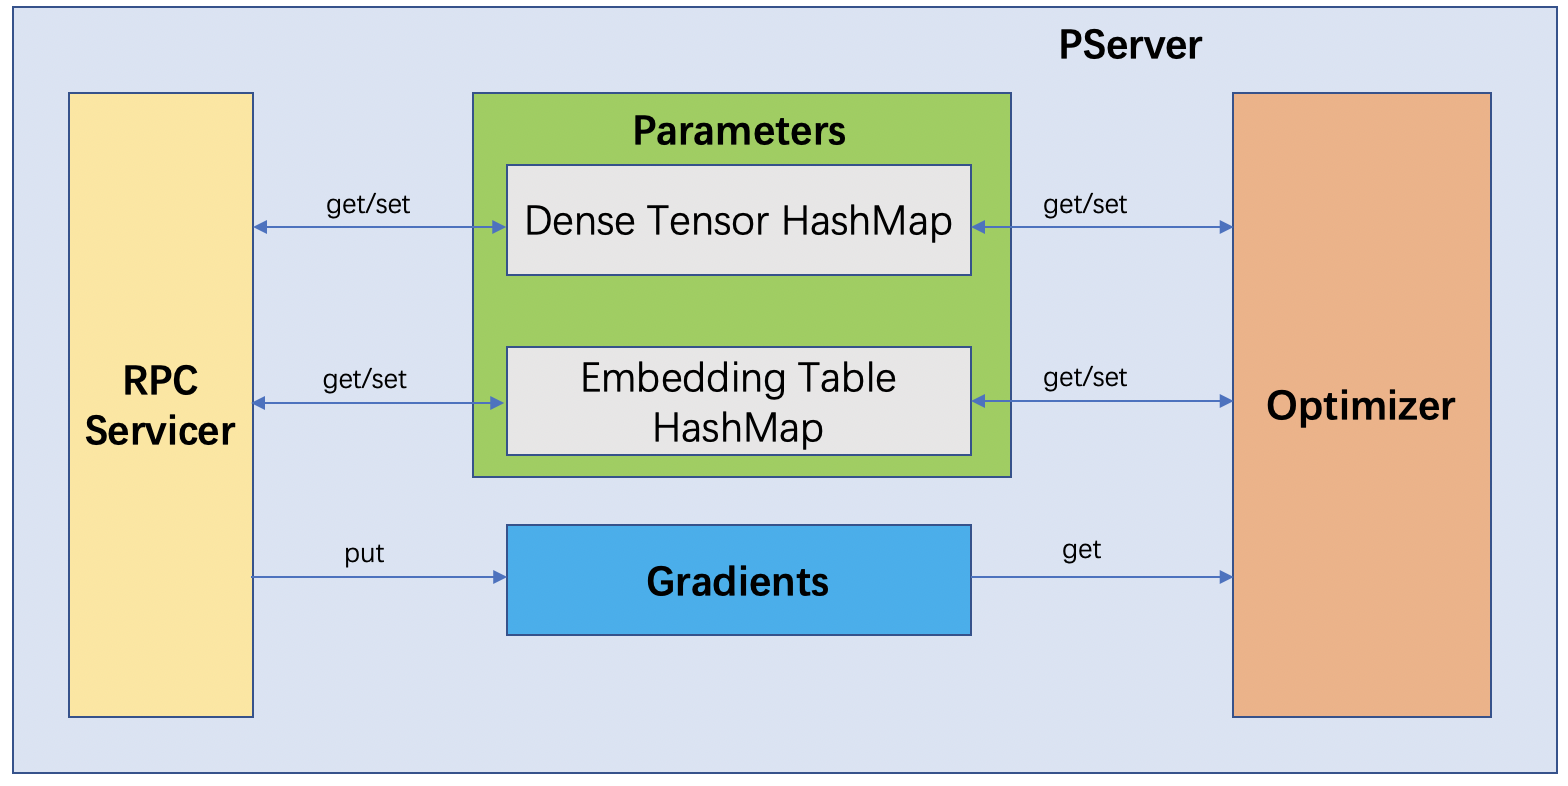
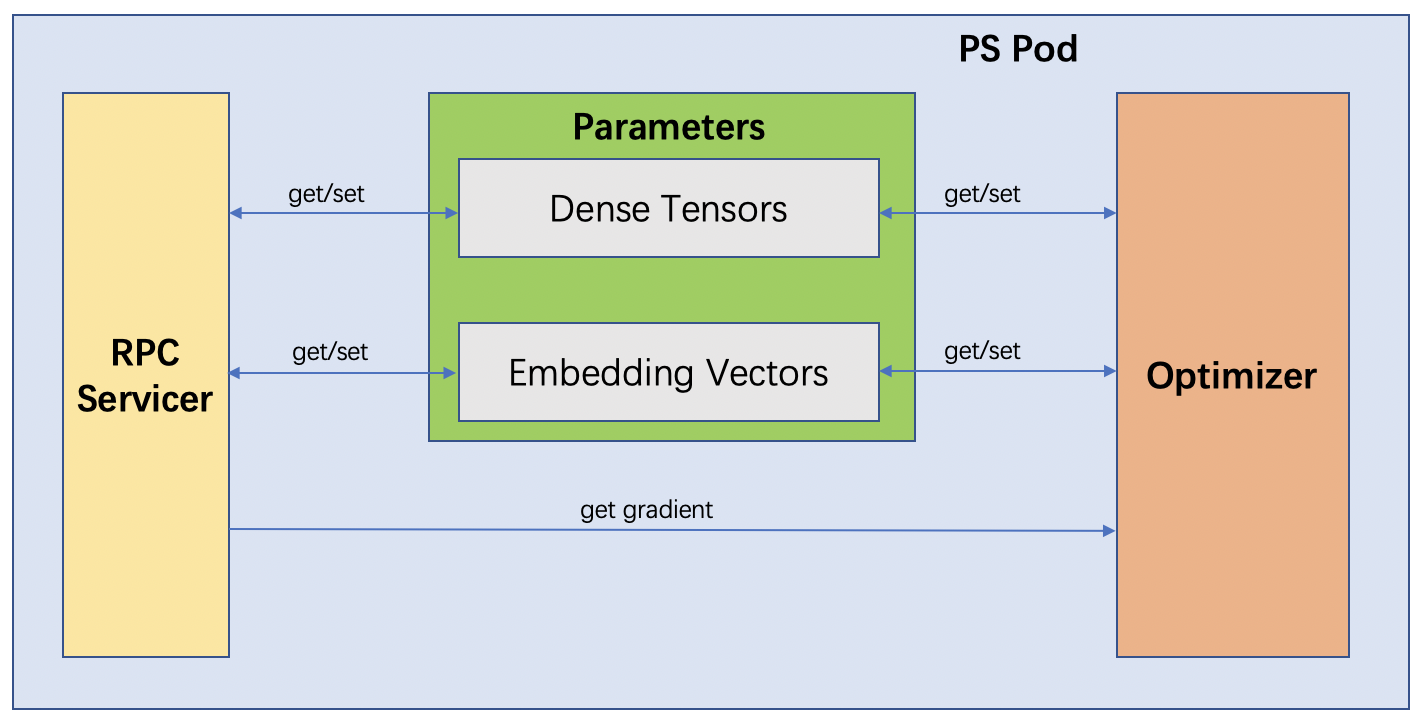
update diagrams

diff --git a/docs/designs/ps_design.md b/docs/designs/ps_design.md
@@ -93,16 +93,6 @@ We have already implemented an [`OptimizeWrapper`](https://github.com/sql-machin
 
 In asynchronous SGD, the PS pod can apply gradients directly to model parameters once it receives gradients. For synchronous SGD, the PS pod accumulates `grads_to_wait` gradients from workers then updates model parameters with these gradients. `grads_to_wait` is an ElasticDL argument specified by the user.
 
-## Short Summary
-
-Following are the details inside a PS instance:
-
-![pserver_detail](../images/pserver_detail.png)
-
-Following are the rpc calls among PS pods and worker pods:
-
-
-![pserver_rpc](../images/pserver_rpc.png)
 
 
 ## Fixed Domain name for PS Pod
@@ -161,9 +151,25 @@ while still training:
         update self.replicas[index] from updated_vectors.embedding_vectors
 ```
 
+
+## Diagram
+Following diagram shows the details inside a PS pod:
+
+![pserver_detail](../images/pserver_detail.png)
+
+Following diagram shows the communication between PS pods:
+
+![pserver_replica](../images/pserver_replica.png)
+
+Following diagram shows the RPC calls among PS pods and worker pods:
+
+
+![pserver_rpc](../images/pserver_rpc.png)
+
+
 ## Appendix
 ### Message Definition
-```python
+```proto
 message Tensor {	
     enum DataType {	
         BOOL = 0;	
@@ -222,7 +228,7 @@ message SynchronizeEmbeddingResponse {
 ```
 
 ### RPC Definition
-```python
+```proto
 service PServer{
     # pull trainable tensorflow variables created by Keras layers
     rpc pull_variable(PullModelRequest) returns (PullModelResponse);
